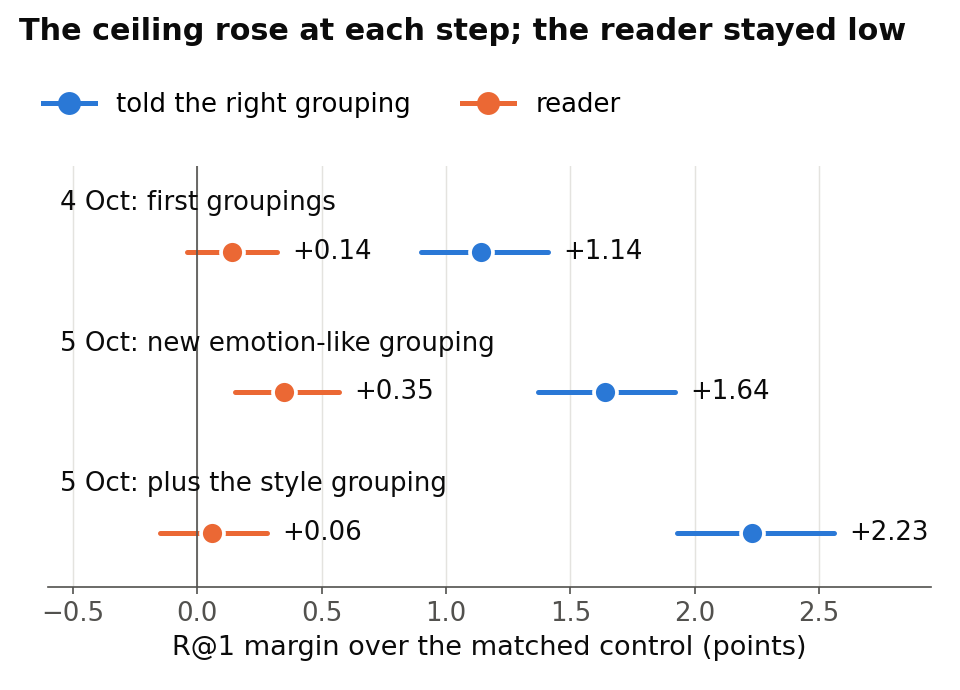
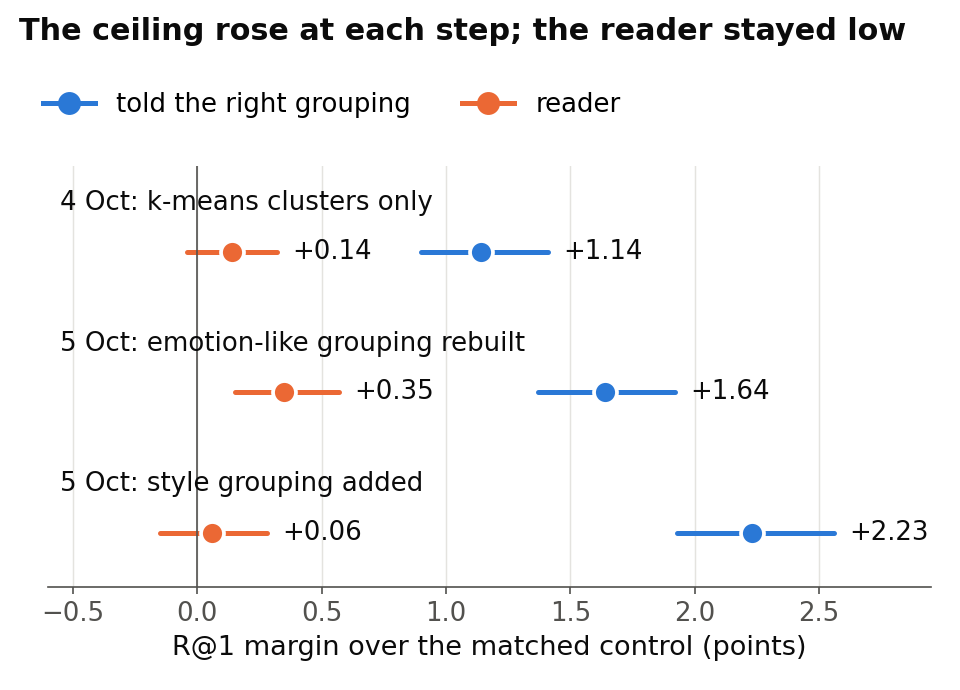
docs(user_read): reader-fix briefing, final fix wave; full report gains the distance-to-bar caveat
Briefing: cost wording reconciled (about two days of work, time-boxed to one week), re-derivation claims scoped to
this run, "possible" causes in Result 3, the bottleneck claim moved out of a how-sure line, one definition of an
episode, terms defined before use, Figure 1's step labels made self-explanatory. Full report §6: the 0.056 miss is far
smaller than the interval's half-width, so the data do not show the true margin is below +0.5.

Claude-Session: https://claude.ai/code/session_01DAashWW11tJVA3t2FPsxha

Changed region(s): [[0.1562, 0.6696, 0.4688, 0.7304], [0.1562, 0.487, 0.5625, 0.5174], [0.1562, 0.2739, 0.4688, 0.3043]]

diff --git a/docs/user_read/assets/2026-10-06_reader_fix/build_figures.py b/docs/user_read/assets/2026-10-06_reader_fix/build_figures.py
@@ -143,7 +143,7 @@ def all_rows():
 def fig1_history():
     # told and label-free reader margins over the matched control; full report section 2 table
     # (stage report section 14; grouping report sections 4 and 9)
-    steps = ["4 Oct: first groupings", "5 Oct: new emotion-like grouping", "5 Oct: plus the style grouping"]
+    steps = ["4 Oct: k-means clusters only", "5 Oct: emotion-like grouping rebuilt", "5 Oct: style grouping added"]
     told = [(1.14, 0.90, 1.41), (1.64, 1.37, 1.92), (2.23, 1.93, 2.56)]
     reader = [(0.14, -0.04, 0.32), (0.35, 0.15, 0.57), (0.06, -0.15, 0.28)]
     fig, ax = plt.subplots(figsize=(6.4, 4.6))

diff --git a/docs/user_read/2026-10-06_reader_fix.md b/docs/user_read/2026-10-06_reader_fix.md
@@ -4,7 +4,7 @@ Full report, final-reviewed: [CoSiR v2 reader fix with the CSD style grouping](.
 
 ## Executive summary
 
-We tried three new versions of the **reader**, the part of CoSiR v2 that guesses which aspect the example pairs of an episode (one ranking task) share. One that cleared a development bar fixed in advance would have earned a one-off test on fresh, never-used episodes before the decision on Friday 9 October. None cleared it. The best, a confidence-gated reader, beat the strongest scorer that ignores the examples' aspect by +0.444 percentage points of R@1 (the share of rankings with the right candidate first), against a bar of +0.5; the current reader's margin on the same measure is +0.31. The gated reader and two learned-reader variants picked up the aspect up to twice as strongly as the current reader, but gave most of that back, because a candidate sharing either aspect came first less often. As the rule prescribes, no fresh test was built. All numbers come from development episodes we have reused many times; independent code and a final review re-derived every one except two intervals added later (Result 2), each computed twice independently. We advise one more reader round of about a week (our estimate) under a new rule committed before any code, with an analysis or benchmark paper prepared as the CVPR fallback (abstract 10 November). On Friday you choose between that, a late-fusion step that refines the existing groupings jointly (design L) and a change of course.
+We tried three new versions of the **reader**, the part of CoSiR v2 that guesses which aspect the example pairs of an episode share (an episode is one ranking task, scored as four rankings: two conditions, meaning which of two aspects the examples show, times two directions, image to caption and back). One that cleared a development bar fixed in advance would have earned a one-off test on fresh, never-used episodes before the decision on Friday 9 October. None cleared it. The best, a confidence-gated reader, beat the strongest scorer that ignores the examples' aspect by +0.444 percentage points of R@1 (the share of rankings with the right candidate first), against a bar of +0.5; the current reader's margin on the same measure is +0.31. The gated reader and two of the other new candidates picked up the aspect up to twice as strongly as the current reader, but gave most of that back, because a candidate sharing either aspect came first less often. As the rule prescribes, no fresh test was built. All numbers come from development episodes we have reused many times. Every number from this run was re-derived by independent code and a final review; the two intervals in Result 2 were added afterwards and checked twice. We advise one more reader round, about two days of work (our rough estimate) time-boxed to one week, under a new rule committed before any code, with an analysis or benchmark paper prepared as the CVPR fallback (abstract 10 November). On Friday you choose between that, a late-fusion step that refines the existing groupings jointly (design L) and a change of course.
 
 **Assumed background:** you know ML and roughly that CoSiR v2 scores image and caption similarity under an aspect shown only by example pairs, aiming at CVPR; this report re-explains the internal names, the grouping redesign, matched controls and the decision rule. Its question: did any new reader clear the pre-set bar, so the fresh test could run before Friday, and what does that mean for Friday's decision?
 
@@ -14,9 +14,9 @@ In each episode CoSiR v2 ranks 13 captions for a painting's image (or 13 images 
 
 ![The ceiling rose at each step; the reader stayed low](assets/2026-10-06_reader_fix/fig1_ceiling_vs_reader.png)
 
-*Figure 1. Margin over the matched control (same scorer, aspect signal removed) in R@1 points, 95% bootstrap intervals; blue: told (right grouping given from labels), orange: the reader. The results use the bar margin (defined below), which is never larger: without the style grouping the current reader has +0.35 here, +0.31 as a bar margin.*
+*Figure 1. Margin over the matched control (same scorer, aspect signal removed) in R@1 points, 95% bootstrap intervals; blue: told (right grouping given from labels), orange: the reader. Rows: on 4 October all groupings were k-means clusters; on 5 October the emotion-like grouping was rebuilt as communities of caption emotion scores, then the style grouping was added. The results judge readers more strictly, against the strongest of three scorers that ignore the aspect, so without the style grouping the current reader's +0.35 here becomes +0.31 there.*
 
-**How sure:** on the same groupings the told margin is +1.64 [1.37, 1.92] against the reader's +0.35 [0.15, 0.57], so reading looks like the bottleneck. These are development episodes, this run's new code reproduced the 5 October rows exactly, and the told scorer uses evaluation labels: a diagnostic ceiling, not a reachable target.
+**How sure:** on the same groupings the told margin is +1.64 [1.37, 1.92] against the reader's +0.35 [0.15, 0.57]; this is the gap this step set out to close, and whether reading is the bottleneck is our view (see Advice). These are development episodes, this run's new code reproduced the 5 October rows exactly, and the told scorer uses evaluation labels: a diagnostic ceiling, not a reachable target.
 
 ## Results
 
@@ -27,7 +27,7 @@ In each episode CoSiR v2 ranks 13 captions for a painting's image (or 13 images 
 - **Learned reader:** a small classifier trained on **practice episodes**, made-up episodes built from the groupings so that the shared grouping is known; it scores with its top grouping (top pick) or a probability-weighted mix (weighted).
 - **Confidence-gated reader:** uses the weighted mix only where the top grouping is clearly ahead, and otherwise ignores the aspect.
 
-The noise-scaled and learned readers ran with and without the style grouping, the gated reader on the best of those six: seven candidates, with the current reader as reference. The **bar margin** is a candidate's R@1 minus that of the strongest of three **aspect-blind scorers**: the project's best scorer that ignores the aspect, its rebuild on the reader's groupings, and the matched control. The **condition gain** is R@1 minus the rate at which the other aspect's candidate comes first (0 for an aspect-blind scorer); the **either rate** is how often a candidate sharing either aspect comes first. The rule asked for a bar margin of at least +0.5 with its interval above 0, and a gain interval above 0.
+The noise-scaled and learned readers ran with and without the style grouping, the gated reader on the best of those six: seven candidates, with the current reader as reference. The **bar margin** is a candidate's R@1 minus that of the strongest of three **aspect-blind scorers**: the project's best scorer that ignores the aspect, the same scorer recomputed with the reader's own set of groupings, and the matched control. The **condition gain** is R@1 minus the rate at which the other aspect's candidate comes first (0 for an aspect-blind scorer); the **either rate** is how often a candidate sharing either aspect comes first. The rule asked for a bar margin of at least +0.5 with its interval above 0, and a gain interval above 0.
 
 ### 1. No reader cleared the bar; the best missed it by 0.056 points
 
@@ -39,7 +39,7 @@ The noise-scaled and learned readers ran with and without the style grouping, th
 
 All seven candidates failed the +0.5 clause; three met the other two. The gated reader's +0.444 [+0.216, +0.674] means it put the right candidate first in 218 more of the 49,152 development rankings than the strongest aspect-blind scorer; +0.5 needed 246. Against the current reader it gained only +0.130 [−0.146, +0.410].
 
-**How sure:** development data (one draw, read many times), a matched control, and a bar committed before any result. The miss is far smaller than the interval's half-width (about 0.23), so it does not show the true margin is below +0.5. The rule puts the inflation from picking the best of seven at roughly 0.1 to 0.15 R@1, and set the +0.5 bar to allow for the roughly halved effects of earlier fresh-seed tests (which measured condition gains, not these margins). Independent code and a final review re-derived every number. Full report, sections [3.1](../reports/auto/v2/2026-11-18_reader_fix_csd.md#31-the-main-table) and [4.3](../reports/auto/v2/2026-11-18_reader_fix_csd.md#43-r-c-the-gate-trades-either-rate-for-gain).
+**How sure:** development data (one draw, read many times), a matched control, and a bar committed before any result. The miss is far smaller than the interval's half-width (about 0.23), so it does not show the true margin is below +0.5. The rule puts the inflation from picking the best of seven at roughly 0.1 to 0.15 R@1, and set the +0.5 bar to allow for the roughly halved effects of earlier fresh-seed tests (which measured condition gains, not these margins). Independent code and a final review re-derived every number in this table. Full report, sections [3.1](../reports/auto/v2/2026-11-18_reader_fix_csd.md#31-the-main-table) and [4.3](../reports/auto/v2/2026-11-18_reader_fix_csd.md#43-r-c-the-gate-trades-either-rate-for-gain).
 
 ### 2. Three readers read the aspect up to twice as strongly, and paid most of it back
 
@@ -51,13 +51,15 @@ Because R@1 = (either rate + condition gain) / 2 exactly, reading the aspect pay
 
 *Figure 3. Blue: condition gain; red: change in either rate; both against the strongest aspect-blind scorer, without the style grouping. The black dot, the bar margin, is half their sum.*
 
+Each episode sets two aspects against each other, an **aspect pair**: emotion × style, emotion × genre or style × genre. By pair:
+
 | Gated reader | emotion × style | emotion × genre | style × genre |
 |---|---|---|---|
 | condition gain | +0.964 | +5.249 | +1.788 |
 | change in either rate | +0.452 | −2.808 | −2.985 |
 | bar margin | +0.708 | +1.221 | −0.598 |
 
-The cost lands on the two **aspect pairs** (the two aspects an episode sets against each other) that include genre. On emotion × genre the large gain pays for it; on style × genre it does not, and that pair alone holds the average under +0.5.
+The cost lands on the two pairs that include genre. On emotion × genre the large gain pays for it; on style × genre it does not, and that pair alone holds the average under +0.5.
 
 **How sure:** every candidate's gain interval lies above 0 (gated: [+2.325, +3.012]). Against the current reader, the gated reader's extra gain (+1.331 [+0.942, +1.716]) and extra either cost (−1.070 [−1.469, −0.661]) are clear of 0 but post hoc: computed after the final review on the selected best candidate, not fixed in advance. The pair split is descriptive and untested. Development data, one draw. Full report, sections [3.2](../reports/auto/v2/2026-11-18_reader_fix_csd.md#32-what-the-fused-readers-gain-and-lose) and [3.4](../reports/auto/v2/2026-11-18_reader_fix_csd.md#34-per-aspect-pair).
 
@@ -65,11 +67,11 @@ The cost lands on the two **aspect pairs** (the two aspects an episode sets agai
 
 **Noise scaling held back the image and style groupings, and the learned reader scored much lower on real episodes than on practice ones, on a stricter measure.**
 
-These are the groupings whose evidence varies most by chance. The noise-scaled reader's **pick accuracy** (how often it picks the label-derived right grouping) fell from 54.7% to 47.1% without the style grouping, mostly where image is right, and with it from 73.5% to 47.6% in the emotion × style episodes that show style. In a control set with an empty grouping (style groups shuffled across paintings), scaling inflated its tiny noise to the size of real evidence, so it won 30.5% of picks, against 20.3% under the current reader and 27.3% under the learned reader (Figure 4).
+These are the groupings whose evidence varies most by chance. The noise-scaled reader's **pick accuracy** (how often it picks the label-derived right grouping) fell from 54.7% to 47.1% without the style grouping, mostly where image is right, and with it from 73.5% to 47.6% in the emotion × style episodes that show style; both drops are far larger than their noise. We also ran every reader on a **control set** of groupings in which an **empty grouping** (the style groups shuffled across paintings, so it carries nothing) replaces the style grouping. There scaling inflated the empty grouping's tiny noise to the size of real evidence, so it won 30.5% of picks, against 20.3% under the current reader and 27.3% under the learned reader (Figure 4).
 
 ![Dividing by noise made the empty grouping win more often](assets/2026-10-06_reader_fix/fig4_empty_grouping.png)
 
-*Figure 4. Share of picks going to the empty grouping in the control set (lower is better); the dashed line is a uniform pick among four groupings.*
+*Figure 4. Share of picks going to the empty grouping (style groups shuffled across paintings) in the control set, where it replaces the style grouping (lower is better); the dashed line is a uniform pick among four groupings.*
 
 Without the style grouping, the learned reader named the shared grouping in about 79% of held-out practice episodes but picked the right grouping in only 51.3% of real ones; with it, about 63% against 48.7% (Figure 5). The real-episode score is stricter: it credits only one label-derived grouping per aspect. The gated reader inherits these picks.
 
@@ -77,7 +79,7 @@ Without the style grouping, the learned reader named the shared grouping in abou
 
 *Figure 5. Right picks on held-out practice episodes (blue; the learned reader is two copies, each trained on half the paintings) and on real development episodes (orange). Chance is one grouping in three (33%) without the style grouping, one in four (25%) with it.*
 
-**How sure:** diagnostics that decide nothing, reproduced by independent code. The two accuracies are not like for like (and genre is not a class in the practice episodes), so the gap is not a pure transfer loss; its two likely causes were not separated, and its cost in bar margin was not tested. Development data. Full report, sections [4.1](../reports/auto/v2/2026-11-18_reader_fix_csd.md#41-r-a-the-noise-scale-makes-the-empty-grouping-competitive) and [4.2](../reports/auto/v2/2026-11-18_reader_fix_csd.md#42-r-b-a-learned-reader-that-transfers-only-partly-from-its-bank).
+**How sure:** diagnostics that decide nothing, reproduced by independent code. The two accuracies are not like for like (and genre is not a class in the practice episodes), so the gap is not a pure transfer loss; two possible causes were not separated, and its cost in bar margin was not tested. Development data. Full report, sections [4.1](../reports/auto/v2/2026-11-18_reader_fix_csd.md#41-r-a-the-noise-scale-makes-the-empty-grouping-competitive) and [4.2](../reports/auto/v2/2026-11-18_reader_fix_csd.md#42-r-b-a-learned-reader-that-transfers-only-partly-from-its-bank).
 
 ### 4. The style grouping did not clearly raise any reader's bar margin
 
@@ -93,16 +95,16 @@ With the style grouping, the rebuilt aspect-blind scorer rose by +0.368 and the 
 
 ## Advice (our view)
 
-**We recommend one more short reader round under a new pre-registered rule (committed before any result), aimed at the two weaknesses we found:** the either-rate cost, which we measured (for example, a fusion or gate that keeps the aspect-blind scorer's knack for finding aspect-sharing candidates while it reads the aspect), and the learned reader's practice-to-real gap, a diagnosis not yet measured like for like. Develop it without the style grouping and keep that grouping as an ablation, since adding it never clearly raised a bar margin. Time-box it to about a week, keep the three fresh, never-used draws of episodes (seeds 49 to 51) for its test, and prepare the analysis or benchmark paper in parallel as the CVPR fallback.
+**We recommend one more short reader round under a new pre-registered rule (committed before any result), aimed at the two weaknesses we found:** the either-rate cost, which we measured (for example, a fusion or gate that keeps the aspect-blind scorer's knack for finding aspect-sharing candidates while it reads the aspect), and the learned reader's practice-to-real gap, a diagnosis not yet measured like for like. Develop it without the style grouping and keep that grouping as an ablation, since adding it never clearly raised a bar margin. Time-box it to one week, keep the three fresh, never-used draws of episodes (seeds 49 to 51) for its test, and prepare the analysis or benchmark paper in parallel as the CVPR fallback.
 
 Why: the best reader missed by 28 rankings out of 49,152, and its weaknesses are identified, though why the either cost arises is a diagnosis, not a tested cause; the pipeline is verified and reusable. On the same groupings, the told ceiling (+1.64 over its matched control) is 3.7 times the gated reader's +0.444 over its matched control, which is also its strongest comparator. We read that as the bottleneck lying in reading the groupings, so we see design L, which changes the groupings, as the less targeted option. That inference is our view: the told ceiling uses labels, and better groupings might also make reading easier, which we have not tested.
 
-Cost and risk: about two days of work in all (our rough estimate). Each extra round on the same development episodes inflates its best result (selection), and only the fresh draws correct for that.
+Cost and risk: about two days of work (our rough estimate), time-boxed to one week. Each extra round on the same development episodes inflates its best result (selection), and only the fresh draws correct for that.
 
 ## Where things stand and what's next
 
 - The rule has been applied: no candidate cleared the bar, so no test was built and the fresh draws are unused.
-- The full report passed a final review that confirmed the verdict, and it is committed with the rule, code and run log; this briefing is not.
+- The full report passed a final review that confirmed the verdict, and it is committed with the rule, code and run log.
 - **Your decision on Friday 9 October**, among the rule's three options: (1) design L, a small late-fusion model that refines the existing groupings jointly so each adds what the others lack, aimed at the style grouping's overlap with genre; it has not been run yet; (2) a change of course to an analysis or benchmark paper; (3) another reader round under a new pre-registered rule (our advice).
 - If you choose (3), the next step is the new rule, written and reviewed before any code.
 
@@ -110,7 +112,7 @@ Cost and risk: about two days of work in all (our rough estimate). Each extra ro
 
 | Plain name | Meaning | Full report's name |
 |---|---|---|
-| episode | one ranking task: query, 4 example and 4 contrasting pairs, 13 candidates | episode |
+| episode | one ranking task, scored as four rankings (two conditions × two directions) | episode |
 | reader | picks the grouping the examples share and scores with it | reader |
 | current reader | picks the grouping the example pairs favour most over the contrasting pairs | step-1 arg-max reader |
 | noise-scaled reader | that evidence divided by its chance variation | R-a |
@@ -122,13 +124,13 @@ Cost and risk: about two days of work in all (our rough estimate). Each extra ro
 | style grouping | 17 communities of CSD style features | csd |
 | empty grouping | style groups shuffled across paintings | rand |
 | without / with the style grouping | the reader's set of groupings | A0 / A1 |
-| control set | the three groupings plus the empty one | AR |
+| control set | the three groupings plus the empty one, in place of the style grouping | AR |
 | told | given the right grouping from labels; a ceiling | told |
 | R@1 | share of rankings with the right candidate first (chance 7.69%); differences in percentage points | R@1 |
 | condition gain | R@1 minus the other aspect's first-place rate | condition gain, gain statistic |
 | either rate | how often a candidate sharing either aspect comes first | either rate |
 | matched control | the same scorer with only the aspect signal removed | matched counterpart |
-| aspect-blind scorers | best aspect-blind scorer, its rebuild, the matched control | B, B′, matched counterpart |
+| aspect-blind scorers | best aspect-blind scorer, the same recomputed on the reader's groupings, the matched control | B, B′, matched counterpart |
 | bar margin | R@1 minus the strongest aspect-blind scorer's | bar margin |
 | development bar | bar margin at least +0.5, its interval and the gain interval above 0 | development bar (rule item 3) |
 | development episodes | the reused draw of 12,288 episodes, four rankings each | episode seed 42 |

diff --git a/docs/reports/auto/v2/2026-11-18_reader_fix_csd.md b/docs/reports/auto/v2/2026-11-18_reader_fix_csd.md
@@ -569,7 +569,8 @@ pre-registered rule. The whole-branch final review has run (§5) and confirmed t
 **Facts that bear on the choice.** We state these without choosing.
 - *Distance to the bar.* The best candidate, R-c, fell 0.056 R@1 short (28 net rankings of 49,152), with a lower bound
   of +0.216 and a gain statistic lower bound of +2.325. Against the arg-max reader on A0 its paired bar-margin
-  difference was +0.130 [−0.146, +0.410].
+  difference was +0.130 [−0.146, +0.410]. The miss (0.056) is far smaller than the interval's half-width (about 0.23), so the
+  data do not show that R-c's true margin is below +0.5, just as they do not show that it is above.
 - *Against B alone.* Three candidates would exceed +0.5 over B (18.341): R-c +0.578 [+0.358, +0.811], R-b arg-max on A1
   +0.645 [+0.371, +0.915] and R-b expected on A1 +0.629 [+0.388, +0.872]. The shortfall comes from B′ and the matched
   counterparts absorbing condition-free lift, which is what the rule's comparators are for (against B′ alone R-c is
